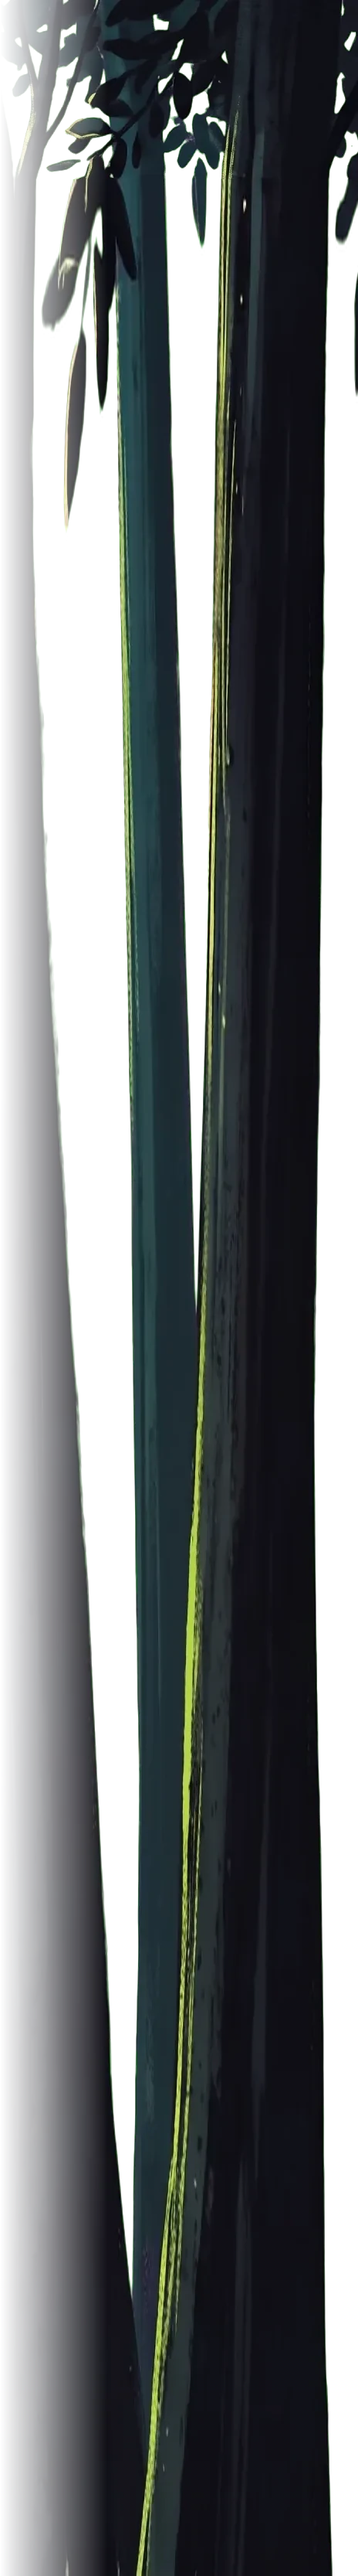
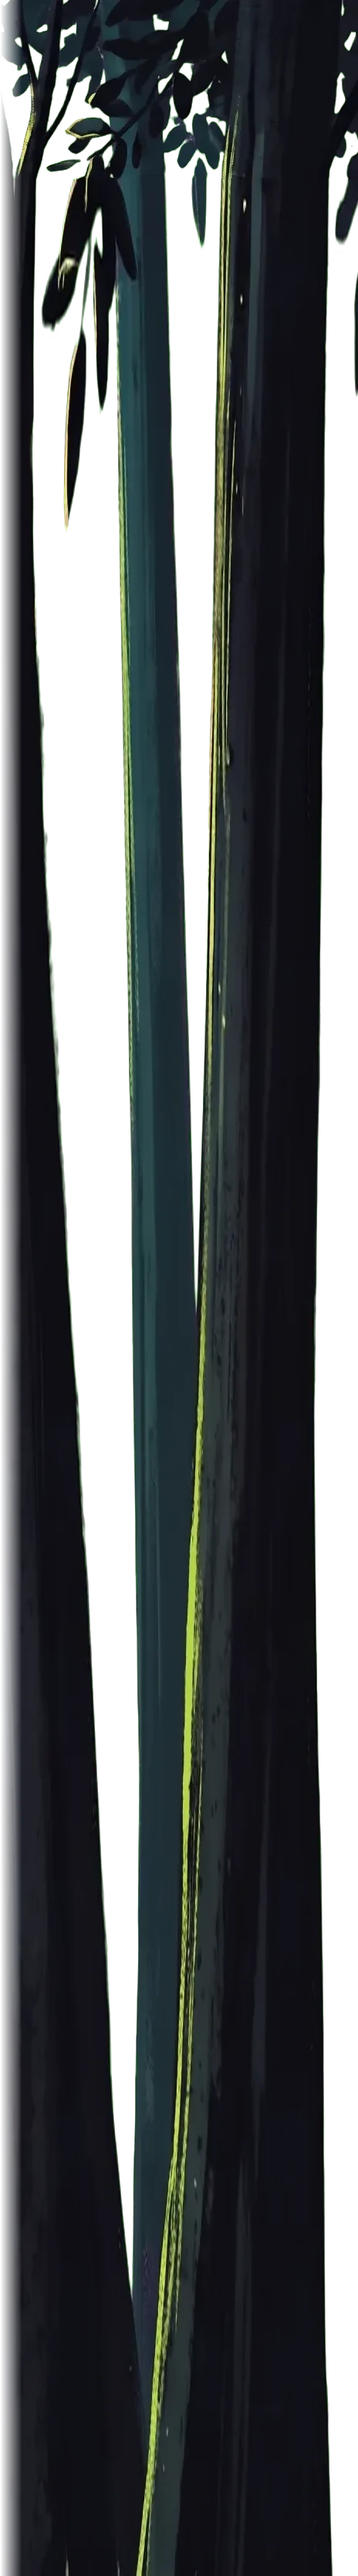
fix(bloomscroll): solid inner trunk on the tablet's right edge
The right tall-tree layer fades over 6 % of its width instead of 30 %, so
its inner trunk no longer looks see-through (owner request).

Changed region(s): [[0.0, 0.0, 0.2716, 1.0]]

diff --git a/components/feed/BloomscrollScene.js b/components/feed/BloomscrollScene.js
@@ -20,7 +20,7 @@ import { BLOOMSCROLL_LOGO } from "@/components/Header/nav-links"
 // so a sharper file of the same shape replaces one with no other change.
 const IMG = "/images/bloomscroll/"
 // Bump when any scene image is replaced, so no browser mixes a cached old picture with new code
-const ART_V = "v=9"
+const ART_V = "v=10"
 const MOON = "moon.webp"
 const WIDE_ART = {
   sky: "sky.webp", far: "far-cut.webp", soft: "far-cut-blur.webp", clouds: "clouds.webp",
@@ -251,13 +251,14 @@ export default function BloomscrollScene({ children }) {
         // Portrait tablets: tall trees on each edge and rose bushes in the corners
         const ph = vis + 4, pw = W * 0.18
         nearHinge = W / 2
-        for (const [el, file, side, fade] of [[nearLeft, WIDE_ART.tallL, "left", "to left"], [nearRight, WIDE_ART.tallR, "right", "to right"]]) {
+        // Their inner edges fade out; the right one only a little, so its inner trunk stays solid (owner, 2026-10-25)
+        for (const [el, file, side, fade, soft] of [[nearLeft, WIDE_ART.tallL, "left", "to left", 30], [nearRight, WIDE_ART.tallR, "right", "to right", 6]]) {
           const s = el.style, img = el.firstElementChild
           setSrc(img, file)
           img.style.cssText = `position:absolute;top:0;${side}:0;height:100%;width:100%;`
           s.clipPath = "none"
           s.overflow = "hidden"
-          s.maskImage = s.webkitMaskImage = `linear-gradient(${fade}, transparent 0, #000 30%)`
+          s.maskImage = s.webkitMaskImage = `linear-gradient(${fade}, transparent 0, #000 ${soft}%)`
           s.left = (side === "left" ? 0 : W - pw) + "px"
           s.top = "0px"
           s.width = pw + "px"

diff --git a/docs/bloomscroll-scene.md b/docs/bloomscroll-scene.md
@@ -47,7 +47,7 @@ The Bloomscroll page (`/feed`) opens with an animated festival scene: the visito
 | Soft-focus far painting | opacity `smoothstep(0.05, 0.6, p) × 0.8` |
 | Moon | rise `1 − smoothstep(700, 2300 ms)`, sink `max(rise, min(1, p × 1.5))`, glow `1 − smoothstep(0.35, 0.95, sink)`; rest `max(mw·0.9, min(h·0.45, h − mw·1.6))`, sunk `h + mw·0.8` (h = horizon or hill line); size `clamp(64px, 8vw, 150px)`, 46 px on portrait, 38 px on phone; x at 0.63 W (phone 0.56 W) + 0.05 W × sink |
 | Near frame (desktop) | full painting at least 1.06 W wide and never shorter than the scene, so the trees run off the top (owner, 2026-10-25), growth `1 + p·0.45·1.2` |
-| Near frame (tablet, portrait) | tall trees 0.18 W, growth `1 + p·0.45·0.3`; flowers 1.1 W, growth `1 + p·0.45·0.6` |
+| Near frame (tablet, portrait) | tall trees 0.18 W, inner edge fading over 30 % (left) and 6 % (right, so its inner trunk stays solid; owner, 2026-10-25), growth `1 + p·0.45·0.3`; flowers 1.1 W, growth `1 + p·0.45·0.6` |
 | Flowers (phone) | wide painting 1.16 W, −8 % per side, growth `1 + p·0.45·0.6`; driven by `--approach` (0–1) |
 | Ending (owner decision, 2026-10-25: the title and subtitle are gone, and no dancer) | the navbar's Bloomscroll mark (`BLOOMSCROLL_LOGO`, flower and wordmark) rises into the middle of the scene once the walk-in is done: `smoothstep(0, 1, m)`, up from +12 % of the scene height, scale 0.6 → 1, then floats ±0.6 % and glows; centred at 50 %, 38 %, width `clamp(220px, 44%, 560px)`, lag 0.45 on scroll-away. Reduced motion: already there. A hidden h1 keeps the page heading. |
 | Haze | opacity `0.7 + p·0.6` |
